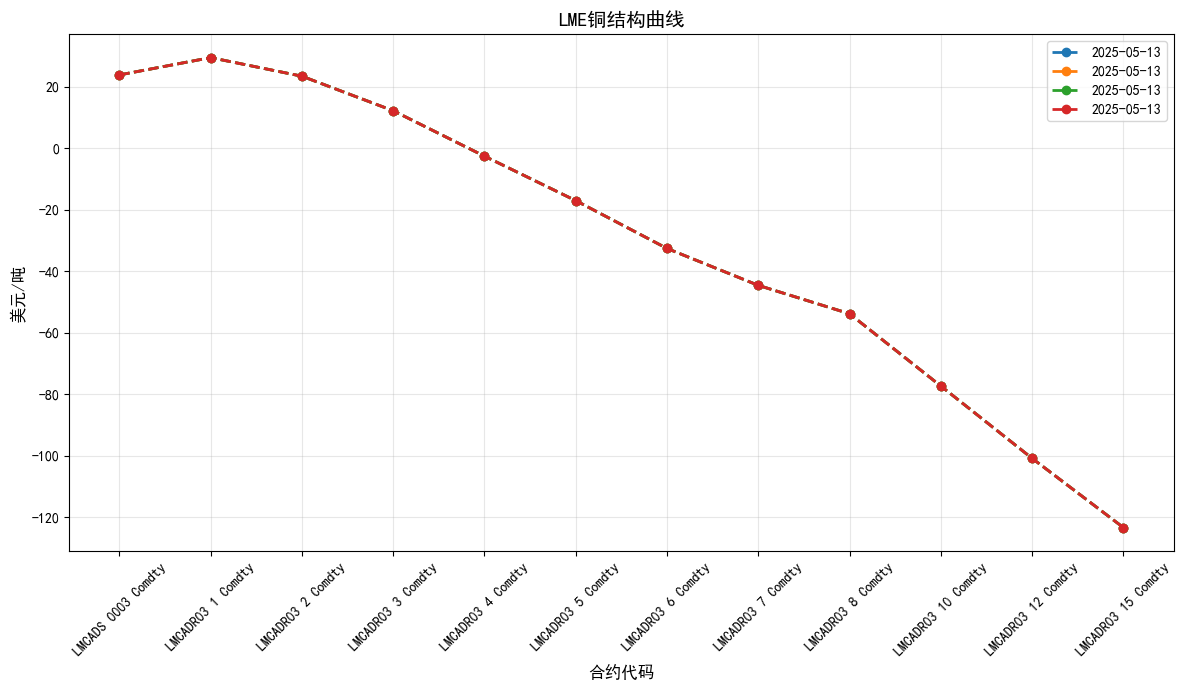
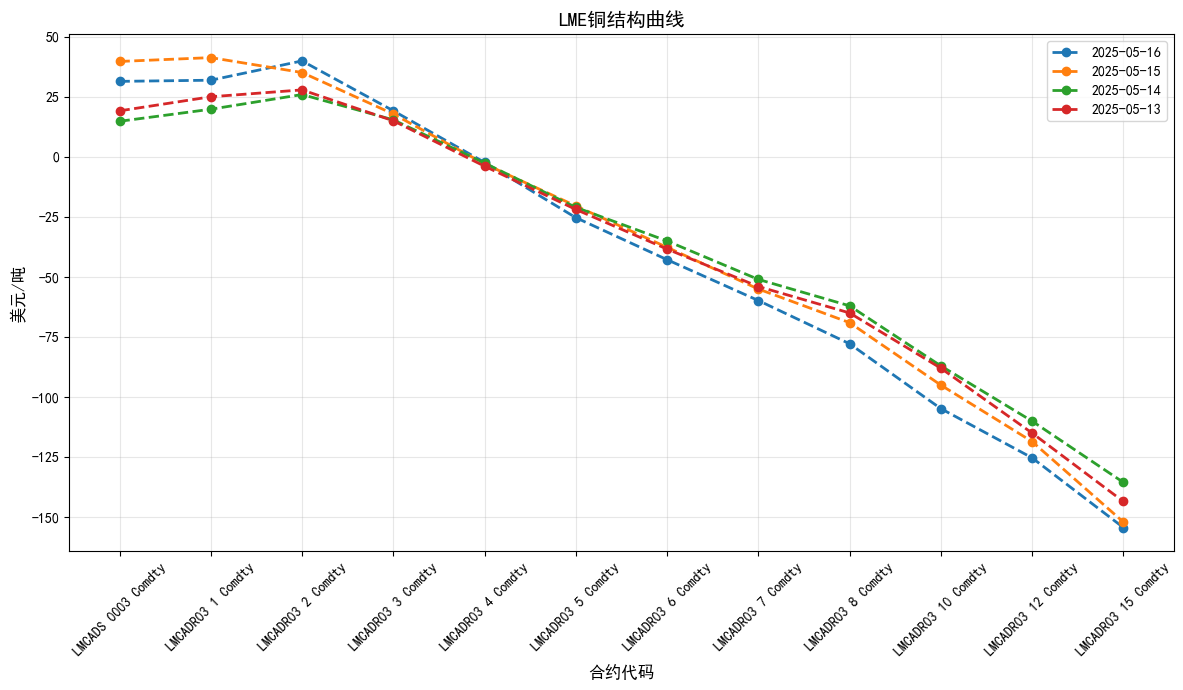
yfwu-main 2025-5-17:22:34:36

diff --git a/铜市场分析20250511.md b/铜市场分析20250511.md
@@ -1,8 +1,8 @@
 详细图表更新： https://yingfengwu-cn.github.io/qztz/
 
--<font size = 4> 策略推荐：单边75000以下做多，由于近端库存高lc价差不参与。<font color = red>**中国区周度去库5k环比走弱明显同比去年同期接近，调研口径周度提货-7%至0.80，周度点价环比+0%维持较高水平，两者都略高于三月水平，预示接下来两周仍有去库预期。**</font>考虑到经济预期不稳，但现实消费却强于预期，预计5月国内去库5w以上，逢低做多为主。</font>
+-<font size = 4> 策略推荐：单边75000以下做多，由于近端库存高lc价差不参与。<font color = red>**中国区周度去库5k环比走弱明显同比去年同期接近，调研口径周度提货-7%至0.80，周度点价环比+0%维持较高水平，两者都略高于三月水平，预示接下来两周仍有去库预期。**</font>考虑到现实消费却强于预期，预计5月国内去库5w左右，逢低做多为主。</font>
 - <font size = 4>周度主要变化简要：<font color = red>本周数据整体偏利空，中国区当周去库幅度收窄+铜精矿加工费止跌企稳。</font>本周CMX-LME继续走弱至650附近，<font color = red>**cmx连续第八周交仓，+0.9w**</font>。
-- **1. 精炼端：本周近端现货基差随着库存去化亦走强100左右，LME曲线结构亦走强。**
+- **1. 精炼端：本周近端月差交割前最多涨到500，冶炼厂ji。**
 - - 库存：<font color = red>节后第七周中国区库存环比-1.4w，略强于季节性。LME库存-6k；CMX库存+12k</font>。
 - - 精铜杆开工：<font color = red>开工率季节性环比-17%至63%。</font>
 - - **废铜杆开工：**湖北废铜杆企业开工率+2.6%至38.4%附近，**两杆差1270，仍低于1500平衡线，但显著修复。**
